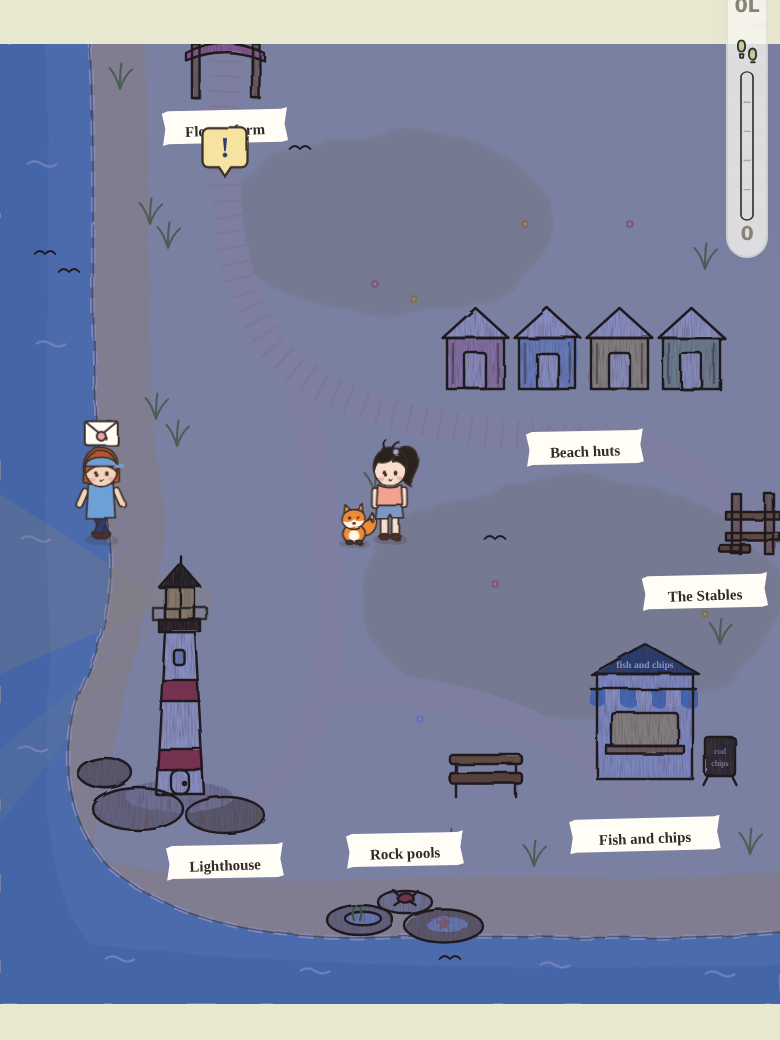
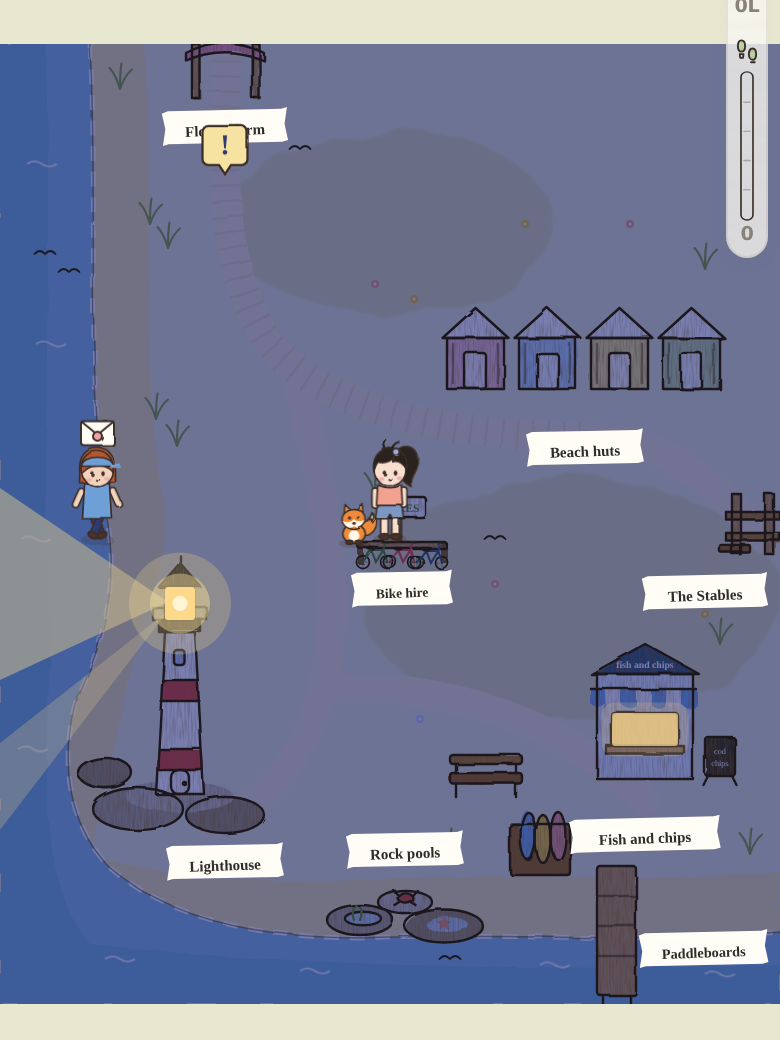
Lighthouse Point: the lamp and beam glow at night; the chip hatch window lights up
Claude-Session: https://claude.ai/code/session_017gYbhpw6TbdTF5ufLgYzyp

diff --git a/maple-village/src/art/lighthouse.js b/maple-village/src/art/lighthouse.js
@@ -38,7 +38,10 @@ export function lighthouseArt(night){
 
   // the lighthouse: white tower, two red bands, a black lamp room with a gallery rail, on rocks on the headland
   const lamp = night ? "#FFD98A" : "#CFE0EE";
-  const beam = night ? `<g pointer-events="none"><path d="M112 372 L0 300 L0 420z" fill="#FFE9A0" opacity=".28"/><path d="M112 378 L0 470 L0 520z" fill="#FFE9A0" opacity=".14"/><circle cx="120" cy="372" r="22" fill="#FFE9A0" opacity=".35"/></g>` : "";
+  // round 269 (Mel: "Add the lighthouse glow"): at night the lamp, its halo and the beam are tagged nglow, so core.js
+  // copies them above the evening darkening (like neon and fairy lights) and they shine instead of going dim
+  const beam = night ? `<g class="nglow" pointer-events="none"><path d="M112 372 L0 296 L0 424z" fill="#FFE9A0" opacity=".34"/><path d="M112 378 L0 466 L0 524z" fill="#FFE9A0" opacity=".18"/>
+    <circle cx="120" cy="373" r="34" fill="#FFE9A0" opacity=".22"/><circle cx="120" cy="373" r="20" fill="#FFE9A0" opacity=".4"/><rect x="110" y="362" width="20" height="22" rx="2" fill="#FFD98A"/><circle cx="120" cy="373" r="5" fill="#FFF6D8"/></g>` : "";
   const tower = "M104 500 L110 392 H130 L136 500z";
   const light = `<g data-place="llight" aria-label="The lighthouse"><ellipse class="hov" cx="140" cy="520" rx="46" ry="12" style="fill:var(--butter)"/>
     ${sk(`${rock(92, 510, 30, 14)}${rock(150, 514, 26, 12, "#A99D8C")}${rock(70, 486, 18, 10, "#A99D8C")}${rock(120, 502, 36, 10, "#CFC8BE")}
@@ -73,7 +76,7 @@ export function lighthouseArt(night){
   // the fish and chip hatch: a little kiosk with a striped awning, a hatch and a chalkboard
   const awn = Array.from({length: 7}, (_, i) => `<path d="M${394 + i*10} 430 h10 v10 q-5 5 -10 0z" style="fill:${i % 2 ? "#FFFDF6" : "#7FB8E8"}"/>`).join("");
   const chips = `<g data-place="lchips" aria-label="The fish and chip hatch"><ellipse class="hov" cx="430" cy="505" rx="46" ry="10" style="fill:var(--butter)"/>
-    ${sk(`<path d="M394 420 L430 400 L466 420z" style="fill:#3E6B8C"/><rect x="398" y="420" width="64" height="70" style="fill:#EAF2F5"/>${awn}<rect x="408" y="446" width="44" height="22" rx="2" style="fill:#F6E3A6"/><rect x="404" y="468" width="52" height="5" style="fill:var(--wood)"/>
+    ${sk(`<path d="M394 420 L430 400 L466 420z" style="fill:#3E6B8C"/><rect x="398" y="420" width="64" height="70" style="fill:#EAF2F5"/>${awn}<rect class="wglow" x="408" y="446" width="44" height="22" rx="2" style="fill:#F6E3A6"/><rect x="404" y="468" width="52" height="5" style="fill:var(--wood)"/>
       <rect x="470" y="462" width="20" height="26" rx="2" style="fill:#4A4642"/>`,
       `<path d="M394 420 L430 400 L466 420z"/><rect x="398" y="420" width="64" height="70"/><path d="M394 430 h70"/><rect x="408" y="446" width="44" height="22" rx="2"/><rect x="404" y="468" width="52" height="5"/>
       <rect x="470" y="462" width="20" height="26" rx="2"/><path d="M472 488 l-3 6 M488 488 l3 6"/>`)}

diff --git a/maple-village/HANDOFF.md b/maple-village/HANDOFF.md
@@ -2763,3 +2763,6 @@ Mel: villagers' story chapters read as broken-up speech without context; thank-y
 
 ## Round 268: the river fork in the vineyard (Mel: "The overlap between the wide river and the little stream is weird. That's not how nature would work")
 - art/vineyard.js: the separate river blob is gone. One shape at the top left: the stream from Makers' Lane widens into the river, which leaves by the west edge (y 44 to 98, meeting home's river), and a narrower branch carries on down the left side. Continuous banks, no overlap, and long gentle curves where it widens and narrows (Mel: "not at right angles but more of natural curves").
+
+## Round 269: the lighthouse glow (Mel: "Add the lighthouse glow")
+- art/lighthouse.js: at night (7pm to 6am) the lamp, a soft double halo and the two beams are one `nglow` group, which core.js `nightLights` copies above the evening darkening, so it shines instead of going dim. The fish and chip hatch's window is `wglow` (lit 7 to 11pm, like the other windows).
